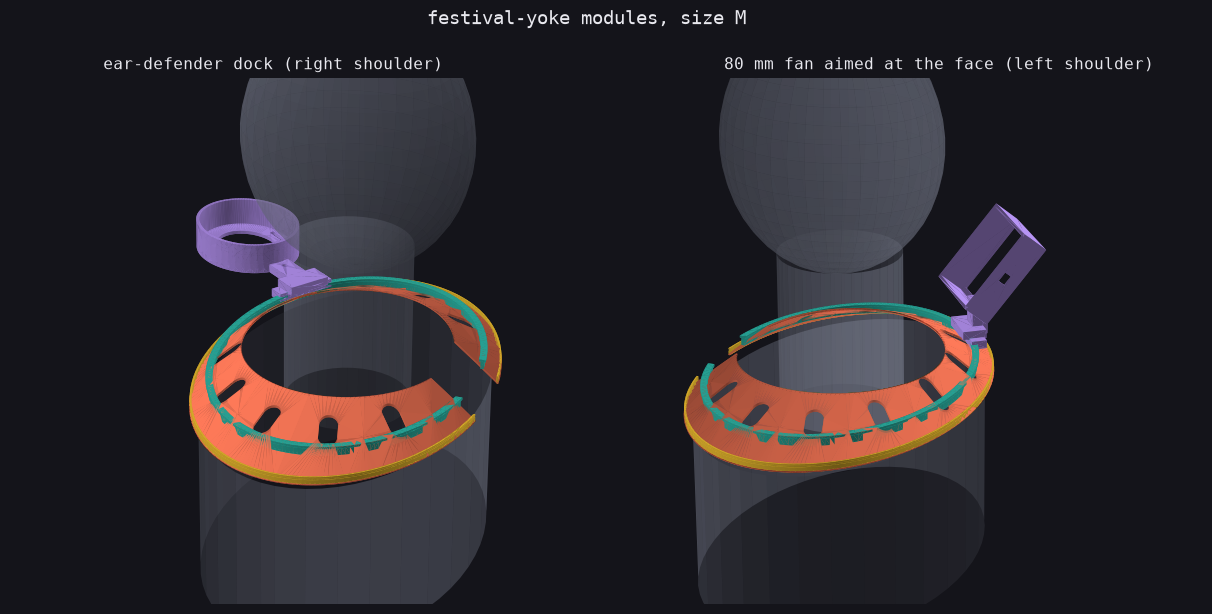
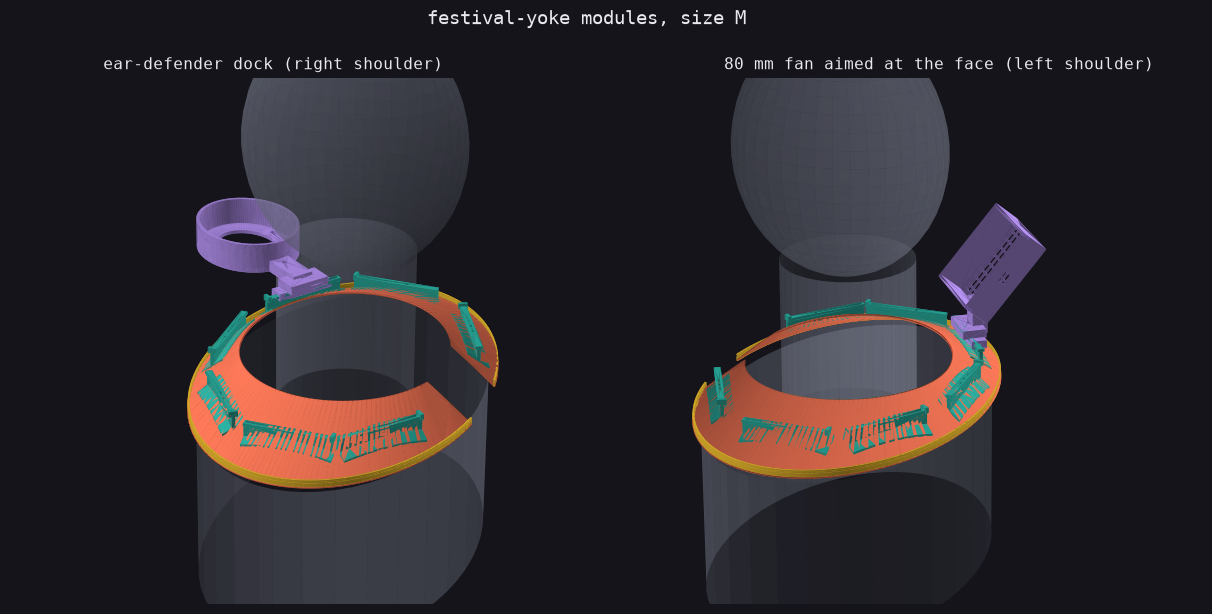
festival-yoke: size presets checked against ANSUR II (SIZING.md); head model, neck base and shoulder drops recalibrated; gap cut before rounding; checked boolean cuts and unions; kit table refreshed

diff --git a/designs/festival-yoke/build.py b/designs/festival-yoke/build.py
@@ -99,8 +99,9 @@ def _skin(r: float) -> cq.Workplane:
     s = cone(0).cut(cone(-t))
     k = (AO - AI) * t / DROP + 1
     s = s.cut(cq.Workplane("XY").workplane(offset=-DROP - 5).ellipse(AI + k, BI + k).extrude(DROP + 10))
+    s = safe_cut(s, gap())   # the front gap goes in before the edges are rounded, so its edges are rounded too
     if r:
-        s = s.edges().fillet(r)  # round the neck and shoulder edges before anything else is cut into it
+        s = s.edges().fillet(r)  # round the neck, gap and shoulder edges before the slots are cut
     # lightening slots, skipping the front gap (60-120 deg)
     length = (AO - AI) * 0.30
     for deg in range(15, 360, 30):  # offset so no slot sits on a seam
@@ -210,7 +211,38 @@ def diffuser() -> cq.Workplane:
     z0 = snap_z() + 0.1
     lead = ring(LIP_U, -face + BEAD_LEAD, face + 0.2, z0, 0.5)
     step = ring(LIP_U, -face + BEAD_STEP, face + 0.2, z0 + 0.5, 0.7)
-    return band.union(hook).union(flange).union(lead).union(step).cut(gap())
+    return safe_cut(band.union(hook).union(flange).union(lead).union(step), gap())
+
+
+def safe_cut(shape: cq.Workplane, tool: cq.Workplane) -> cq.Workplane:
+    """shape.cut(tool), checked: the CAD kernel sometimes returns an inverted or empty solid for particular dimensions.
+    Retries with the tool nudged by hundredths of a millimetre, and refuses to return a result it cannot trust."""
+    base = shape.val().Volume()
+    for dx, dy in ((0, 0), (0.013, 0.007), (-0.011, 0.017), (0.021, -0.013), (-0.017, -0.019)):
+        try:
+            out = shape.cut(tool.translate((dx, dy, 0))) if (dx or dy) else shape.cut(tool)
+            v = out.val().Volume()
+        except Exception:
+            continue
+        if out.val().isValid() and 0 < v <= base * 1.0001:
+            return out
+    raise RuntimeError("boolean cut failed on every retry: change a dimension by 0.1 mm and try again")
+
+
+def safe_union(a: cq.Workplane, b: cq.Workplane) -> cq.Workplane:
+    """a.union(b), checked like safe_cut: the result must be valid and no smaller than the larger input nor bigger than both added."""
+    va, vb = a.val().Volume(), b.val().Volume()
+    for dx, dy, dz in ((0, 0, 0), (0.013, 0.007, 0.004), (-0.011, 0.017, -0.006), (0.021, -0.013, 0.009), (-0.017, -0.019, -0.011)):
+        try:
+            out = a.union(b.translate((dx, dy, dz))) if (dx or dy or dz) else a.union(b)
+            v = out.val().Volume()
+        except Exception:
+            continue
+        if out.val().isValid() and max(va, vb) * 0.999 <= v <= (va + vb) * 1.0001:
+            return out
+    # the kernel cannot fuse these two: keep them as one compound (they overlap by tenths of a millimetre at most), so
+    # clash and balance checks still work; nothing is printed from this combined shape
+    return cq.Workplane("XY").newObject([cq.Compound.makeCompound([a.val(), b.val()])])
 
 
 def gap() -> cq.Workplane:
@@ -219,17 +251,17 @@ def gap() -> cq.Workplane:
 
 def components() -> dict[str, cq.Workplane]:
     g = gap()
-    comps = {"skin": skin().cut(g), "lip": lip().cut(g), "pad": pads()}
+    comps = {"skin": skin(), "lip": safe_cut(lip(), g)}   # the foam seats are engraved marks in the flat skin, not printed pads
     bars = rail()
     if bars is not None:
-        comps["rail"] = bars.cut(g)
+        comps["rail"] = safe_cut(bars, g)
     return comps
 
 
 def yoke(with_bars: bool = True) -> cq.Workplane:
     c = components()
-    out = c["skin"].union(c["lip"]).union(c["pad"])
-    return out.union(c["rail"]) if with_bars and "rail" in c else out
+    out = safe_union(c["skin"], c["lip"])
+    return safe_union(out, c["rail"]) if with_bars and "rail" in c else out
 
 
 QUARTERS = {"fr": (1, 1), "br": (1, -1), "fl": (-1, 1), "bl": (-1, -1)}
@@ -318,7 +350,7 @@ def main():
     channel = led_channel()
     print(f"LED channel between rail and lip: {channel:.1f} mm wide at its narrowest, takes a strip up to {strip_width():.0f} mm wide"
           + ("" if strip_width() >= 8 else "  <- narrower than the usual 8 mm strip: buy a thinner one"))
-    plain = lip(groove=False).cut(gap()).intersect(dif)
+    plain = safe_cut(lip(groove=False), gap()).intersect(dif)
     flex = sum(s.Volume() for s in plain.solids().vals()) if plain.vals() else 0.0
     print(f"Snap: bead overlaps a groove-less lip by {flex:.0f} mm3 (that is what flexes on install); {SNAP_DEPTH} mm deep groove locks it; install by pressing down")
     print(f"Diffuser: {dtotal:.0f} g of the total, overlap with yoke {touch_mm3:.2f} mm3 (want 0)")

diff --git a/designs/festival-yoke/sizing.py b/designs/festival-yoke/sizing.py
@@ -6,16 +6,14 @@ Pick a preset with `size = "M"` in config.toml or FESTIVAL_YOKE_SIZE=L in the en
 import math
 import os
 
-HEAD_EASE = 14.0   # mm each side between head width and the yoke opening
-HEAD_RATIO = 0.8   # head width : head length, a typical adult ratio
+HEAD_EASE = 19.0     # mm each side between the bare head width and the yoke opening: ease plus about 10 mm for hair
+HEAD_BREADTH_PER_CIRC = 0.267   # ANSUR II (US Army survey, 4082 men and 1986 women): head breadth / head circumference, pooled
+HEAD_LENGTH_PER_CIRC = 0.343    # head length / head circumference. An ellipse fitted to the circumference overstates both
 
 
 def head_axes(circumference: float) -> tuple[float, float]:
-    """Semi-axes (half width, half length) of an elliptical head of this circumference."""
-    p = HEAD_RATIO
-    k = math.pi * (3 * (p + 1) - math.sqrt((3 * p + 1) * (p + 3)))
-    q = circumference / k
-    return p * q, q
+    """Semi-axes (half width, half length) of the head, from ANSUR II ratios to the head circumference."""
+    return HEAD_BREADTH_PER_CIRC * circumference / 2, HEAD_LENGTH_PER_CIRC * circumference / 2
 
 
 def resolve(cfg: dict) -> tuple[str, dict]:
@@ -25,8 +23,8 @@ def resolve(cfg: dict) -> tuple[str, dict]:
     return size, {
         "head_circumference": table["head_circumference"],
         "neck_circumference": table["neck_circumference"],
-        "neck_opening_a": round(p + HEAD_EASE, 1),
-        "neck_opening_b": round(0.85 * q, 1),
+        "neck_opening_a": round((p + HEAD_EASE) * 2) / 2,   # to the nearest 0.5 mm: round numbers keep the CAD kernel on its well-trodden paths
+        "neck_opening_b": round(0.87 * q * 2) / 2,
         "shoulder_half_width": table["shoulder_width"] / 2,
         "shoulder_half_depth": table["shoulder_depth"] / 2,
         "shoulder_drop": table["shoulder_drop"],

diff --git a/designs/festival-yoke/power.py b/designs/festival-yoke/power.py
@@ -92,7 +92,7 @@ def strip() -> cq.Workplane:
     u = (build.R["position"] + build.LIP_U) / 2
     plan = build.ring(u, STRIP_WIDTH / 2 - 0.6, STRIP_WIDTH / 2 + 0.6, -80, 160)   # nudged 0.6 mm outward: the cover's inner wall is not a uniform offset round an eccentric ellipse
     above_skin = build.cone(0.4 + STRIP_T).cut(build.cone(0.4))
-    ribbon = plan.intersect(above_skin).cut(build.gap())
+    ribbon = build.safe_cut(plan.intersect(above_skin), build.gap())
     bars = build.rail()
     return ribbon.cut(bars) if bars is not None else ribbon   # the strip rides over the bar flanges
 

diff --git a/designs/festival-yoke/flatpack.py b/designs/festival-yoke/flatpack.py
@@ -334,7 +334,7 @@ def hoop_segments() -> dict[str, cq.Workplane]:
     zl = build.surface(build.LIP_U)[2]
     lip = build.ring(build.LIP_U, G["lip_width"] / 2, G["lip_width"] / 2, zl - 8, 8 + G["lip_height"])
     lip = lip.cut(build.ring(build.LIP_U, 0.5 - G["lip_width"] / 2, G["lip_width"] / 2 + 0.1, build.snap_z(), build.SNAP_HEIGHT))
-    lip = lip.cut(build.cone(0)).cut(build.gap())
+    lip = build.safe_cut(lip.cut(build.cone(0)), build.gap())
     out = {}
     for name, (a0, a1) in SEGMENTS.items():
         seg = lip.intersect(_sector(a0, a1))

diff --git a/designs/festival-yoke/concept.py b/designs/festival-yoke/concept.py
@@ -12,6 +12,7 @@ import power
 from viz import COLORS, mannequin, shade, tris_of
 
 comps = build.components()
+comps["pad"] = build.pads()   # drawn for the underside view only; the real seats are foam stickers
 extras = {"cup": module.cup_module(), "phone": module.phone_module(), "dock": module.dock_module(), "fan": module.fan_module(), "pod": power.pod_module(), "lid": power.pod_lid(), "id": module.id_module(), "tube": module.tube_module(), "strip": power.strip(), "diffuser": power.fitted_diffuser()}
 
 

diff --git a/designs/festival-yoke/dock.py b/designs/festival-yoke/dock.py
@@ -71,7 +71,7 @@ def bar(angle: float, sink: float = 0.0) -> cq.Workplane:
     body = _place(body, f).cut(build.cone(-sink))
     flange_plan = _place(_box(FLANGE_W, BAR_LENGTH, -100, 100), f)
     slab = build.cone(FLANGE_T).cut(build.cone(-sink))
-    return body.union(flange_plan.intersect(slab))
+    return build.safe_union(body, flange_plan.intersect(slab))
 
 
 def bars_formed():

diff --git a/designs/festival-yoke/concept_kit.py b/designs/festival-yoke/concept_kit.py
@@ -18,6 +18,7 @@ def render():
     import power
 
     comps = build.components()
+    comps["pad"] = build.pads()   # drawn for the underside view only; the real seats are foam stickers
     items = []
 
     def add(shape, color, alpha=1.0):

diff --git a/designs/festival-yoke/SIZING.md b/designs/festival-yoke/SIZING.md
@@ -1,0 +1,37 @@
+# Checking the size presets against survey data
+
+I checked the S/M/L/XL presets against the **ANSUR II** survey: measurements of 4,082 men and 1,986 women in the US Army, taken in 2010-2012 and published by the Army and Penn State OpenLab ([the public CSVs](https://www.openlab.psu.edu/ansur2/); summary report TR-15/007). I computed the statistics from the raw files. All figures are millimetres.
+
+## What the survey says (the five dimensions the yoke uses)
+
+| Measure | Men: mean (5th-95th) | Women: mean (5th-95th) | Pooled 50/50: 5th / median / 95th |
+|---|---|---|---|
+| Head circumference | 574 (548-601) | 561 (532-597) | 537 / 568 / 600 |
+| Head breadth | 154 (146-163) | 148 (140-156) | 141 / 151 / 162 |
+| Head length | 200 (188-211) | 190 (178-202) | 180 / 195 / 209 |
+| Neck circumference at the base | 435 (395-479) | 371 (340-405) | 345 / 399 / 480 |
+| Neck circumference at the Adam's apple | 398 (360-443) | 330 (302-363) | 307 / 361 / 433 |
+| Biacromial breadth (the yoke's "shoulder width") | 416 (384-447) | 365 (335-396) | 342 / 391 / 441 |
+| Chest depth (the closest thing to "shoulder depth") | 254 (211-298) | 247 (205-296) | 207 / 249 / 297 |
+| Neck-base-to-shoulder-tip drop (C7 to acromion height) | 77 (54-100) | 61 (39-82) | 43 / 69 / 94 |
+
+## What I found and changed
+
+1. **The head is smaller than my model assumed.** I had fitted an ellipse to the head circumference. Real heads are 152 x 196 mm at a 570 mm circumference, not 161 x 201, because a circumference measure includes the brow and back-of-head bumps. The head model now uses the survey's ratios (breadth 0.267, length 0.343 of the circumference). To keep the opening the same size I raised the allowance to 19 mm each side (ease plus about 10 mm of hair) and the depth factor to 0.87. Size M's opening is 190 x 170 mm, as before.
+2. **The neck numbers were too small for what I told people to measure.** The guide says to measure at the base of the neck, where a shirt collar sits; the survey's median there is 399 mm, and I had 350 for size M. The neck presets (used for the fit report and the mannequin) are now 365 / 380 / 425 / 450, the median of the people each size serves.
+3. **Head presets** moved to 550 / 570 / 580 / 590. People with a given shoulder width have heads that vary much less than my presets spread (the correlation between head circumference and shoulder width is only 0.48), so L and XL were too large.
+4. **Shoulder drop** now follows the slope. The population's shoulder slope (the trapezius line) has a median of about 24 degrees, with a 5th-95th range of 15 to 32. The collar is built at 24, so the drop scales with its width: 36 / 40 / 45 / 51 (it was 38 / 40 / 42 / 45, too shallow for L and XL).
+5. **Shoulder depth is the least supported number.** The survey has no shoulder front-to-back dimension. Chest depth varies little with shoulder width (medians of 242 to 263 mm across the four sizes), so my 230-300 mm range probably grows too fast. I left it: it needs a real shoulder measurement, and you can set it yourself in the `custom` table.
+6. **Shoulder width presets already match the population.** The survey's 12th, 40th, 70th and 92nd percentiles are 353, 379, 411 and 435 mm; the presets are 350, 380, 410 and 440. No change.
+
+## How well it covers
+
+I tested each of 10,000 people (5,000 men and 5,000 women resampled): give them the size nearest their shoulder width, then ask whether (a) their shoulders are within 25 mm of the yoke, (b) their head and 10 mm of hair pass through the opening, (c) the front gap does not need to open more than 60 mm beyond its 70 mm, and (d) the opening is not more than 55 mm wider than their neck. **The presets pass for 98.4% of the sample**, with sizes S, M, L and XL used by 25%, 30%, 31% and 15%. The only real misses are people whose shoulders are more than 25 mm from any size (about 1%). A set of sizes placed exactly on population percentiles did no better. Those four criteria are mine: change them and the number moves.
+
+## Limits
+
+- **It is a US Army sample**: adults aged roughly 17-51, selected for fitness, with few very large bodies, no children and few older adults. The people this is for may not match it. **Larger neck and shoulder dimensions than XL are likely among civilians and older people**, so an XXL is probably worth adding.
+- **No seated or wheelchair posture**: the survey measures standing and sitting bodies, not rounded shoulders, forward head posture or spinal conditions, all of which change how a collar sits.
+- **One slope per size**: the collar is built at 24 degrees, but people's shoulders range from 15 to 32. At a 32 degree slope (about one person in twenty) the rim will lift, and at 15 degrees the skin will crease, because the TPU can only take up so much. If your slope is far from 24, set `shoulder_drop` yourself from your own measurement.
+- **Head and shoulders do not travel together**: someone with broad shoulders and a small head, or the reverse, will fit one size's shoulders and another's opening. Use `size = "custom"`.
+- **Hair**: the 10 mm hair allowance is a guess. Large hair, buns, hats and headwear will not pass the opening.

diff --git a/designs/festival-yoke/README.md b/designs/festival-yoke/README.md
@@ -30,6 +30,11 @@ S/M/L/XL presets and a custom option, driven by five measurements (`sizing.py`).
 - `power.py` also runs 18 clash checks between every module, the strip, the fitted cover and the yoke.
 - Lithium cells are a fire risk: use a protected cell with a boost board that has its own protection, never wrap cells in the collar, and keep the pod's vents clear. No cell or board has been tested here.
 
+## Sizing check (`SIZING.md`)
+The S/M/L/XL presets were checked against the ANSUR II survey (4,082 men and 1,986 women, computed from the public CSVs): they cover about 98% of that sample. Changes: the head model now uses the survey's breadth and length ratios (an ellipse fitted to the circumference was too big), the neck presets are now at the base of the neck as the measuring guide says, the L and XL shoulder drops follow the population's 24 degree median slope, and the printed foam seats are gone from the formed model (they are engraved marks plus foam stickers). The survey is a US Army sample with no seated posture, so treat the presets as starting points; an XXL is probably worth adding. Shoulder depth has no survey equivalent and is the least supported number.
+
+Along the way the CAD kernel started returning inverted solids for size M's exact opening dimensions. `build.py` now cuts the front gap before rounding the edges (so the gap edges are rounded too) and checks every cut and union (`safe_cut`, `safe_union`), falling back to a compound only where a fuse cannot be done.
+
 ## Parts and cost (`BOM.md`, `bom.py`)
 Printed grams per kit come from the CAD; purchased-part prices are my estimates anchored on a few October 2026 listings, not quotes. Rough totals for size M, excluding shipping, tax and tools: core 14-26 USD, glow 48-113, carry 54-138, comfort 56-143, full 63-172, plus 55-88 USD the first time for whole 1 kg spools of TPU, PETG and natural PETG. The battery, board, strip and spring plungers are the real cost; the plastic is cheap.
 
@@ -68,11 +73,11 @@ Pick a kit with `kit = "full"` in `config.toml` or `FESTIVAL_YOKE_KIT=glow`. Mod
 
 | Kit | Modules | Printed g (M) | Loaded g | COM offset | Margin inside the foam seats |
 |---|---|---|---|---|---|
-| core | none: yoke, seats, lip | 107 | 107 | 5 mm | 49 mm |
-| glow | pod (strip + cover come with it) | 177 | 282 | 50 mm | 4 mm |
-| carry | cup, phone, ID pouch, pod | 303 | 988 | 62 mm | 3 mm |
-| comfort | dock, fan, pod | 248 | 643 | 63 mm | 10 mm |
-| full | all seven | 386 | 1391 | 18 mm | 36 mm |
+| core | none: yoke, lip | 98 | 98 | 6 mm | 48 mm |
+| glow | pod (strip + cover come with it) | 167 | 272 | 52 mm | 2 mm |
+| carry | cup, phone, ID pouch, pod | 287 | 972 | 65 mm | 2 mm |
+| comfort | dock, fan, pod | 241 | 636 | 62 mm | 10 mm |
+| full | all seven | 379 | 1384 | 18 mm | 36 mm |
 
 "Margin" is how far the loaded centre of mass is inside the rectangle spanned by the four foam seats (+-123 mm across, +-54 mm front to back); at or below zero the collar pitches or rolls and one side lifts off. The carry kit sits right on that edge with a full cup, so use a smaller cup or lighten the front there. Masses are estimates (see `balance.py`).
 

diff --git a/designs/festival-yoke/MEASURING.md b/designs/festival-yoke/MEASURING.md
@@ -12,7 +12,7 @@ Stand relaxed, shoulders down, no jacket or thick top.
 | 4 | **Shoulder depth** | Front to back over the top of the shoulder, halfway between neck and shoulder tip. Hold a ruler on the collarbone and read the distance to the back of the shoulder, or have your helper measure it from the side. | `shoulder_depth` |
 | 5 | **Shoulder drop** | Height from the neck base to the shoulder tip. Lay a ruler flat on top of the neck base, level with the floor, and measure straight down to the shoulder tip. | `shoulder_drop` |
 
-Typical adult ranges, for a sanity check: head 530-620, neck 300-420, shoulder width 340-450, shoulder depth 220-310, shoulder drop 30-55.
+Typical adult ranges, for a sanity check (5th to 95th percentile, men and women pooled, from the ANSUR II survey: see SIZING.md): head 537-600, neck at the base 345-480, shoulder width 342-441. Shoulder depth and drop are not surveyed in this form; expect about 200-300 and 35-60.
 
 ## Choosing a size
 
@@ -20,20 +20,20 @@ Presets in `config.toml`:
 
 | Size | Head | Neck | Shoulder width | Depth | Drop |
 |------|------|------|----------------|-------|------|
-| S | 540 | 320 | 350 | 230 | 38 |
-| M | 570 | 350 | 380 | 260 | 40 |
-| L | 590 | 380 | 410 | 280 | 42 |
-| XL | 610 | 410 | 440 | 300 | 45 |
+| S | 550 | 365 | 350 | 230 | 36 |
+| M | 570 | 380 | 380 | 260 | 40 |
+| L | 580 | 425 | 410 | 280 | 45 |
+| XL | 590 | 450 | 440 | 300 | 51 |
 
-These are starting points, not anthropometric data. Shoulder width is the one that matters most: the yoke should sit on the shoulders, not hang off them. If you are between sizes, go by shoulder width and neck, not head.
+The presets were checked against the ANSUR II survey (SIZING.md): they cover about 98% of adults in that sample, but it is a US Army sample, so treat them as starting points. Neck means the circumference at the base of the neck where a shirt collar sits, not at the Adam's apple. Shoulder width is the one that matters most: the yoke should sit on the shoulders, not hang off them. If you are between sizes, go by shoulder width and neck, not head.
 
 If your numbers are not near a preset, use your own:
 
 1. In `config.toml` set `size = "custom"` and fill in `[custom]` with your five measurements.
 2. Run `uv run --no-project --with cadquery build.py`.
-3. Read the fit report it prints. Lines starting `WARN` mean the opening is loose or tight, or the collar is too narrow for the rail.
+3. Read the fit report it prints. Lines starting `WARN` mean the opening is loose or tight, or the collar is too narrow for the docking bars.
 
-The head and neck numbers set the opening. The opening is wider than the head by 14 mm each side, and about 85% of the head's length front to back. The head tilts through the open front to go on, so the opening is deliberately not a full ring.
+The head and neck numbers set the opening. The opening is wider than the head by 19 mm each side (ease plus about 10 mm for hair), and about 87% of the head's length front to back. The head tilts through the open front to go on, so the opening is deliberately not a full ring.
 
 ## Check the fit before printing the rest
 
